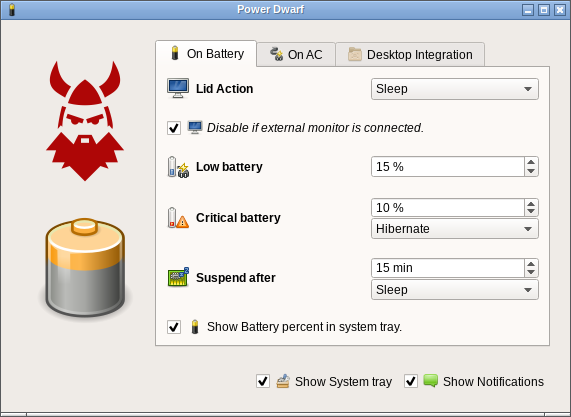
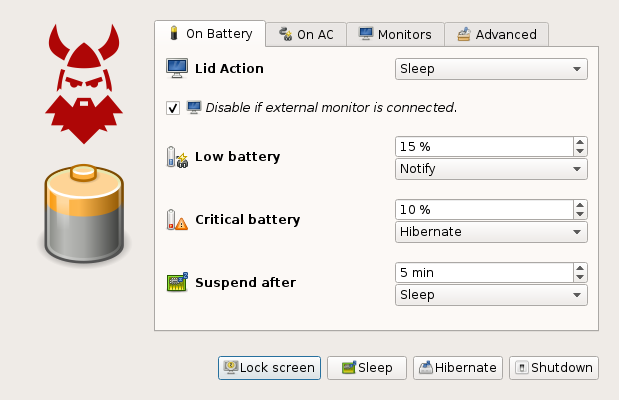
ui stuff

diff --git a/config/dialog.cpp b/config/dialog.cpp
@@ -30,12 +30,13 @@ Dialog::Dialog(QWidget *parent)
     , sleepButton(0)
     , hibernateButton(0)
     , poweroffButton(0)
+    , lowBatteryAction(0)
 {
     // setup dialog
     setAttribute(Qt::WA_QuitOnClose, true);
     setWindowTitle(QString("Power Dwarf"));
     setWindowIcon(QIcon::fromTheme(DEFAULT_BATTERY_ICON, QIcon(":/icons/battery.png")));
-    setMinimumSize(QSize(480,360));
+    setMinimumSize(QSize(550,400));
 
     // setup dbus
     QDBusConnection session = QDBusConnection::sessionBus();
@@ -53,7 +54,6 @@ Dialog::Dialog(QWidget *parent)
 
     QWidget *wrapper = new QWidget(this);
     QHBoxLayout *wrapperLayout = new QHBoxLayout(wrapper);
-    layout->addWidget(wrapper);
 
     QWidget *powerContainer = new QWidget(this);
     powerContainer->setContentsMargins(0,0,0,0);
@@ -115,6 +115,16 @@ Dialog::Dialog(QWidget *parent)
     lowBattery->setSuffix(tr(" %"));
     QLabel *lowBatteryLabel = new QLabel(this);
 
+    QWidget *lowActionBatteryContainer = new QWidget(this);
+    lowActionBatteryContainer->setContentsMargins(0,0,0,0);
+    QVBoxLayout *lowActionBatteryContainerLayout = new QVBoxLayout(lowActionBatteryContainer);
+    lowActionBatteryContainerLayout->setMargin(0);
+    lowActionBatteryContainerLayout->setSpacing(0);
+    lowBatteryAction = new QComboBox(this);
+    connect(lowBatteryAction, SIGNAL(currentIndexChanged(int)), this, SLOT(handleLowBatteryAction(int)));
+    lowActionBatteryContainerLayout->addWidget(lowBattery);
+    lowActionBatteryContainerLayout->addWidget(lowBatteryAction);
+
     QLabel *lowBatteryIcon = new QLabel(this);
     lowBatteryIcon->setMaximumSize(24,24);
     lowBatteryIcon->setMinimumSize(24,24);
@@ -122,7 +132,7 @@ Dialog::Dialog(QWidget *parent)
     lowBatteryLabel->setText(tr("<strong>Low battery</strong>"));
     lowBatteryContainerLayout->addWidget(lowBatteryIcon);
     lowBatteryContainerLayout->addWidget(lowBatteryLabel);
-    lowBatteryContainerLayout->addWidget(lowBattery);
+    lowBatteryContainerLayout->addWidget(lowActionBatteryContainer);
     batteryContainerLayout->addWidget(lowBatteryContainer);
 
     QWidget *criticalBatteryContainer = new QWidget(this);
@@ -180,7 +190,6 @@ Dialog::Dialog(QWidget *parent)
     batteryContainerLayout->addWidget(sleepBatteryContainer);
 
     batteryContainerLayout->addStretch();
-    containerWidget->addTab(batteryContainer, QIcon::fromTheme("battery", QIcon(":/icons/battery.png")), tr("On Battery"));
 
     QWidget *acContainer = new QWidget(this);
     QVBoxLayout *acContainerLayout = new QVBoxLayout(acContainer);
@@ -216,20 +225,9 @@ Dialog::Dialog(QWidget *parent)
     acContainerLayout->addWidget(sleepACContainer);
 
     acContainerLayout->addStretch();
-    containerWidget->addTab(acContainer, QIcon::fromTheme("ac-adapter", QIcon(":/icons/ac-adapter.png")), tr("On AC"));
-
-    //QWidget *desktopContainer = new QWidget(this);
-    //QVBoxLayout *desktopContainerLayout = new QVBoxLayout(desktopContainer);
-
-
-
-    //desktopContainerLayout->addStretch();
-    //containerWidget->addTab(desktopContainer, QIcon::fromTheme("preferences-other", QIcon(":/icons/preferences-other")), tr("Services"));
 
     QWidget *advContainer = new QWidget(this);
     QVBoxLayout *advContainerLayout = new QVBoxLayout(advContainer);
-
-    containerWidget->addTab(advContainer, QIcon::fromTheme("preferences-other", QIcon(":/icons/preferences-other")), tr("Advanced"));
 
     showSystemTray  = new QCheckBox(this);
     showSystemTray->setIcon(QIcon::fromTheme("preferences-other", QIcon(":/icons/preferences-other.png")));
@@ -263,32 +261,45 @@ Dialog::Dialog(QWidget *parent)
     extraContainerLayout->addStretch();
 
     lockscreenButton = new QPushButton(this);
+    lockscreenButton->setIcon(QIcon::fromTheme("system-lock-screen", QIcon(":/icons/system-lock-screen.png")));
     lockscreenButton->setText(tr("Lock screen"));
-    connect(lockscreenButton, SIGNAL(released()), this, SLOT(handleLockscreenButton()));
 
     sleepButton = new QPushButton(this);
+    sleepButton->setIcon(QIcon::fromTheme("system-suspend", QIcon(":/icons/system-suspend.png")));
     sleepButton->setText(tr("Sleep"));
-    connect(sleepButton, SIGNAL(released()), this, SLOT(handleSleepButton()));
 
     hibernateButton = new QPushButton(this);
+    hibernateButton->setIcon(QIcon::fromTheme("system-hibernate", QIcon(":/icons/system-hibernate.png")));
     hibernateButton->setText(tr("Hibernate"));
-    connect(hibernateButton, SIGNAL(released()), this, SLOT(handleHibernateButton()));
 
     poweroffButton = new QPushButton(this);
-    poweroffButton->setText(tr("Power Off"));
-    connect(poweroffButton, SIGNAL(released()), this, SLOT(handlePoweroffButton()));
+    poweroffButton->setIcon(QIcon::fromTheme("system-shutdown", QIcon(":/icons/system-shutdown.png")));
+    poweroffButton->setText(tr("Shutdown"));
 
     extraContainerLayout->addWidget(lockscreenButton);
     extraContainerLayout->addWidget(sleepButton);
     extraContainerLayout->addWidget(hibernateButton);
     extraContainerLayout->addWidget(poweroffButton);
 
+    QWidget *monitorContainer = new QWidget(this);
+    QVBoxLayout *monitorContainerLayout = new QVBoxLayout(monitorContainer);
+
+    layout->addWidget(wrapper);
     layout->addWidget(extraContainer);
+
+    containerWidget->addTab(batteryContainer, QIcon::fromTheme("battery", QIcon(":/icons/battery.png")), tr("On Battery"));
+    containerWidget->addTab(acContainer, QIcon::fromTheme("ac-adapter", QIcon(":/icons/ac-adapter.png")), tr("On AC"));
+    containerWidget->addTab(monitorContainer, QIcon::fromTheme("video-display", QIcon(":/icons/video-display.png")), tr("Monitors"));
+    containerWidget->addTab(advContainer, QIcon::fromTheme("preferences-other", QIcon(":/icons/preferences-other.png")), tr("Advanced"));
 
     populate(); // populate boxes
     loadSettings(); // load settings
 
     // connect various widgets
+    connect(lockscreenButton, SIGNAL(released()), this, SLOT(handleLockscreenButton()));
+    connect(sleepButton, SIGNAL(released()), this, SLOT(handleSleepButton()));
+    connect(hibernateButton, SIGNAL(released()), this, SLOT(handleHibernateButton()));
+    connect(poweroffButton, SIGNAL(released()), this, SLOT(handlePoweroffButton()));
     connect(lidActionBattery, SIGNAL(currentIndexChanged(int)), this, SLOT(handleLidActionBattery(int)));
     connect(lidActionAC, SIGNAL(currentIndexChanged(int)), this, SLOT(handleLidActionAC(int)));
     connect(criticalActionBattery, SIGNAL(currentIndexChanged(int)), this, SLOT(handleCriticalAction(int)));
@@ -304,6 +315,11 @@ Dialog::Dialog(QWidget *parent)
     connect(disableLidActionAC, SIGNAL(toggled(bool)), this, SLOT(handleDisableLidActionAC(bool)));
     connect(disableLidActionBattery, SIGNAL(toggled(bool)), this, SLOT(handleDisableLidActionBattery(bool)));
     connect(autoSleepBatteryAction, SIGNAL(currentIndexChanged(int)), this, SLOT(handleAutoSleepBatteryAction(int)));
+}
+
+Dialog::~Dialog()
+{
+    Common::savePowerSettings("dialog_geometry", saveGeometry());
 }
 
 // populate widgets with default values
@@ -331,11 +347,27 @@ void Dialog::populate()
     autoSleepBatteryAction->addItem(tr("Sleep"), suspendSleep);
     autoSleepBatteryAction->addItem(tr("Hibernate"), suspendHibernate);
     autoSleepBatteryAction->addItem(tr("Shutdown"), suspendShutdown);
+
+    lowBatteryAction->clear();
+    lowBatteryAction->addItem(tr("Notify"), suspendNone);
+    lowBatteryAction->addItem(tr("Sleep"), suspendSleep);
+    lowBatteryAction->addItem(tr("Hibernate"), suspendHibernate);
+    lowBatteryAction->addItem(tr("Shutdown"), suspendShutdown);
 }
 
 // load settings and set as default in widgets
 void Dialog::loadSettings()
 {
+    if (Common::validPowerSettings("dialog_geometry")) {
+        restoreGeometry(Common::loadPowerSettings("dialog_geometry").toByteArray());
+    }
+
+    int defaultLowBatteryAction = suspendNone;
+    if (Common::validPowerSettings("low_battery_action")) {
+        defaultLowBatteryAction = Common::loadPowerSettings("low_battery_action").toInt();
+    }
+    setDefaultAction(lowBatteryAction, defaultLowBatteryAction);
+
     int defaultAutoSleepBattery = AUTO_SLEEP_BATTERY;
     if (Common::validPowerSettings("suspend_battery_timeout")) {
         defaultAutoSleepBattery = Common::loadPowerSettings("suspend_battery_timeout").toInt();
@@ -430,10 +462,8 @@ void Dialog::loadSettings()
 // tell power manager to update settings
 void Dialog::updatePM()
 {
-    qDebug() << dbus->isValid();
-    qDebug() << dbus->call("refresh");
-//    if (!dbus->isValid()) { return; }
-  //  dbus->call("refresh");
+    if (!dbus->isValid()) { return; }
+    dbus->call("refresh");
 }
 
 // set default action in combobox
@@ -574,4 +604,10 @@ void Dialog::handlePoweroffButton()
 {
     qDebug() << "power off";
     if (UPower::canPowerOff()) { UPower::poweroff(); }
+}
+
+void Dialog::handleLowBatteryAction(int value)
+{
+    Common::savePowerSettings("low_battery_action", value);
+    updatePM();
 }

diff --git a/config/dialog.h b/config/dialog.h
@@ -51,6 +51,7 @@ class Dialog : public QDialog
 
 public:
    explicit Dialog(QWidget *parent = NULL);
+   ~Dialog();
 
 signals:
     void refresh();
@@ -76,6 +77,7 @@ private:
     QPushButton *sleepButton;
     QPushButton *hibernateButton;
     QPushButton *poweroffButton;
+    QComboBox *lowBatteryAction;
 
 private slots:
     void populate();
@@ -103,6 +105,7 @@ private slots:
     void handleSleepButton();
     void handleHibernateButton();
     void handlePoweroffButton();
+    void handleLowBatteryAction(int value);
 };
 
 #endif // DIALOG_H
